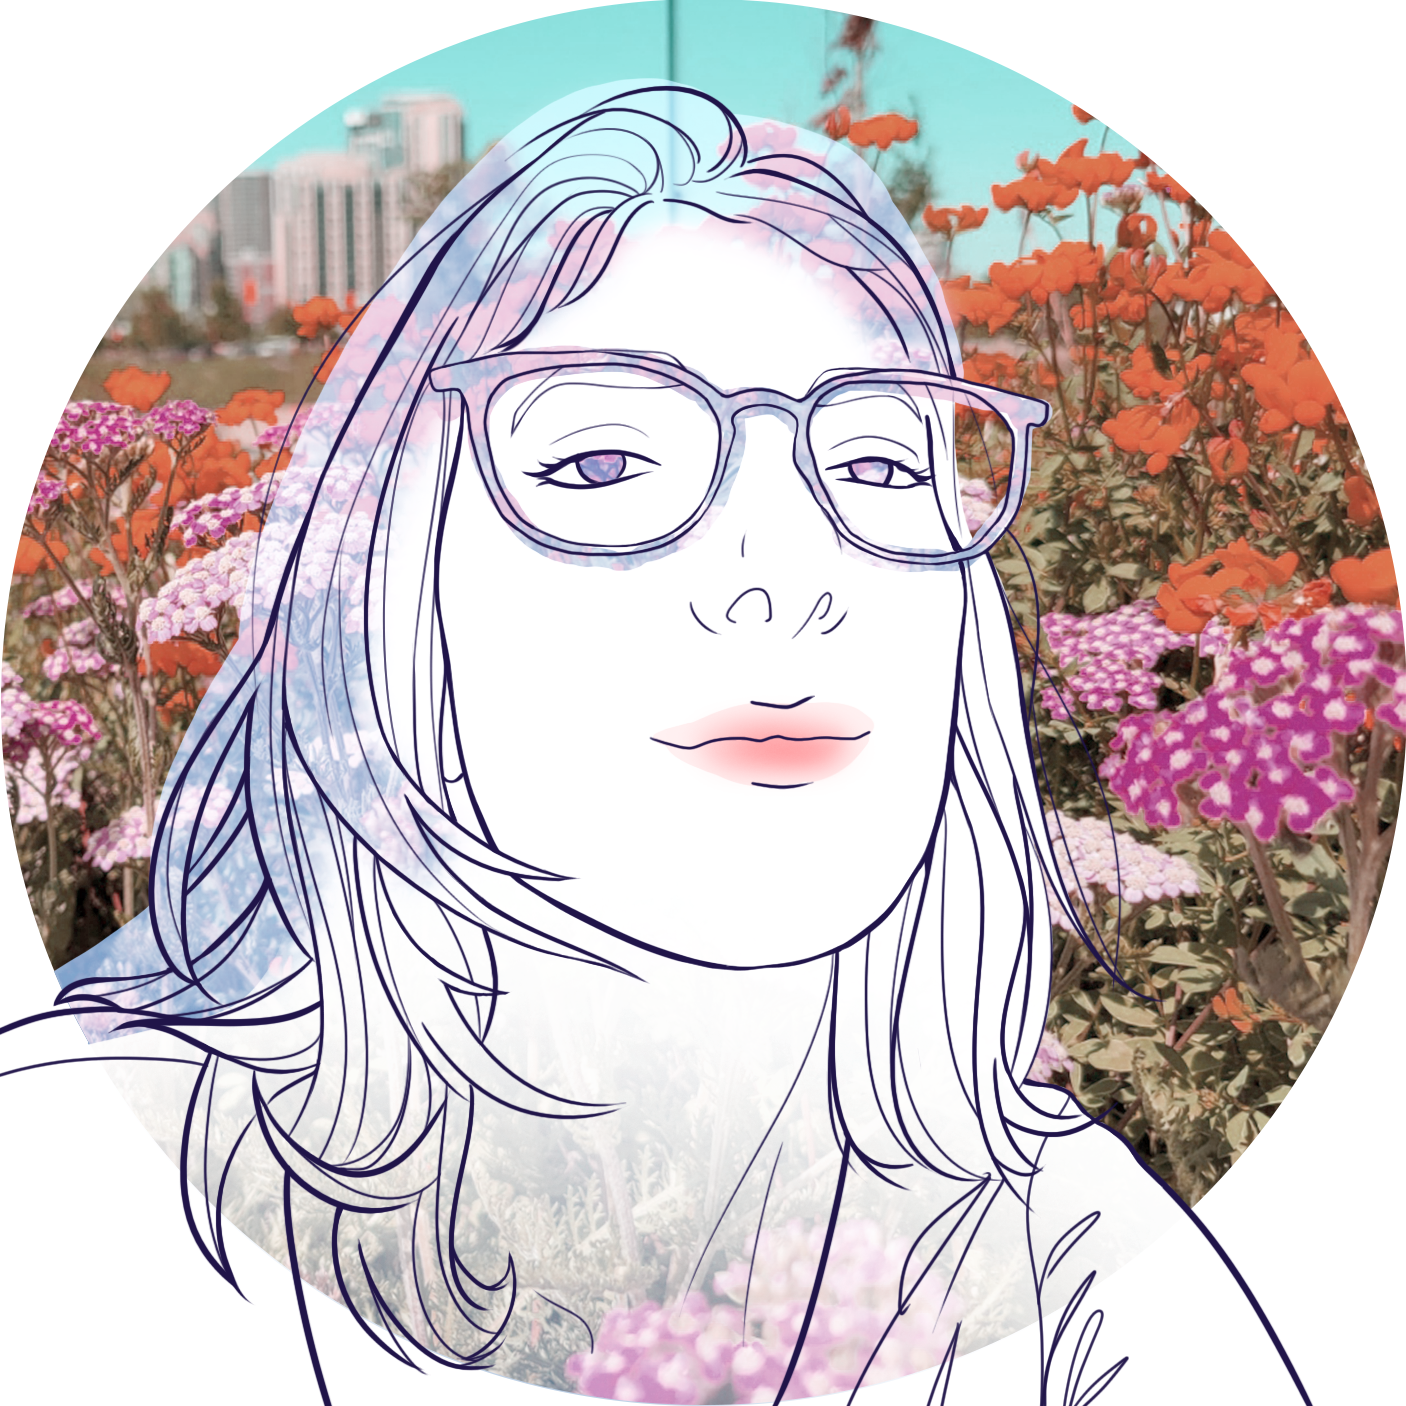
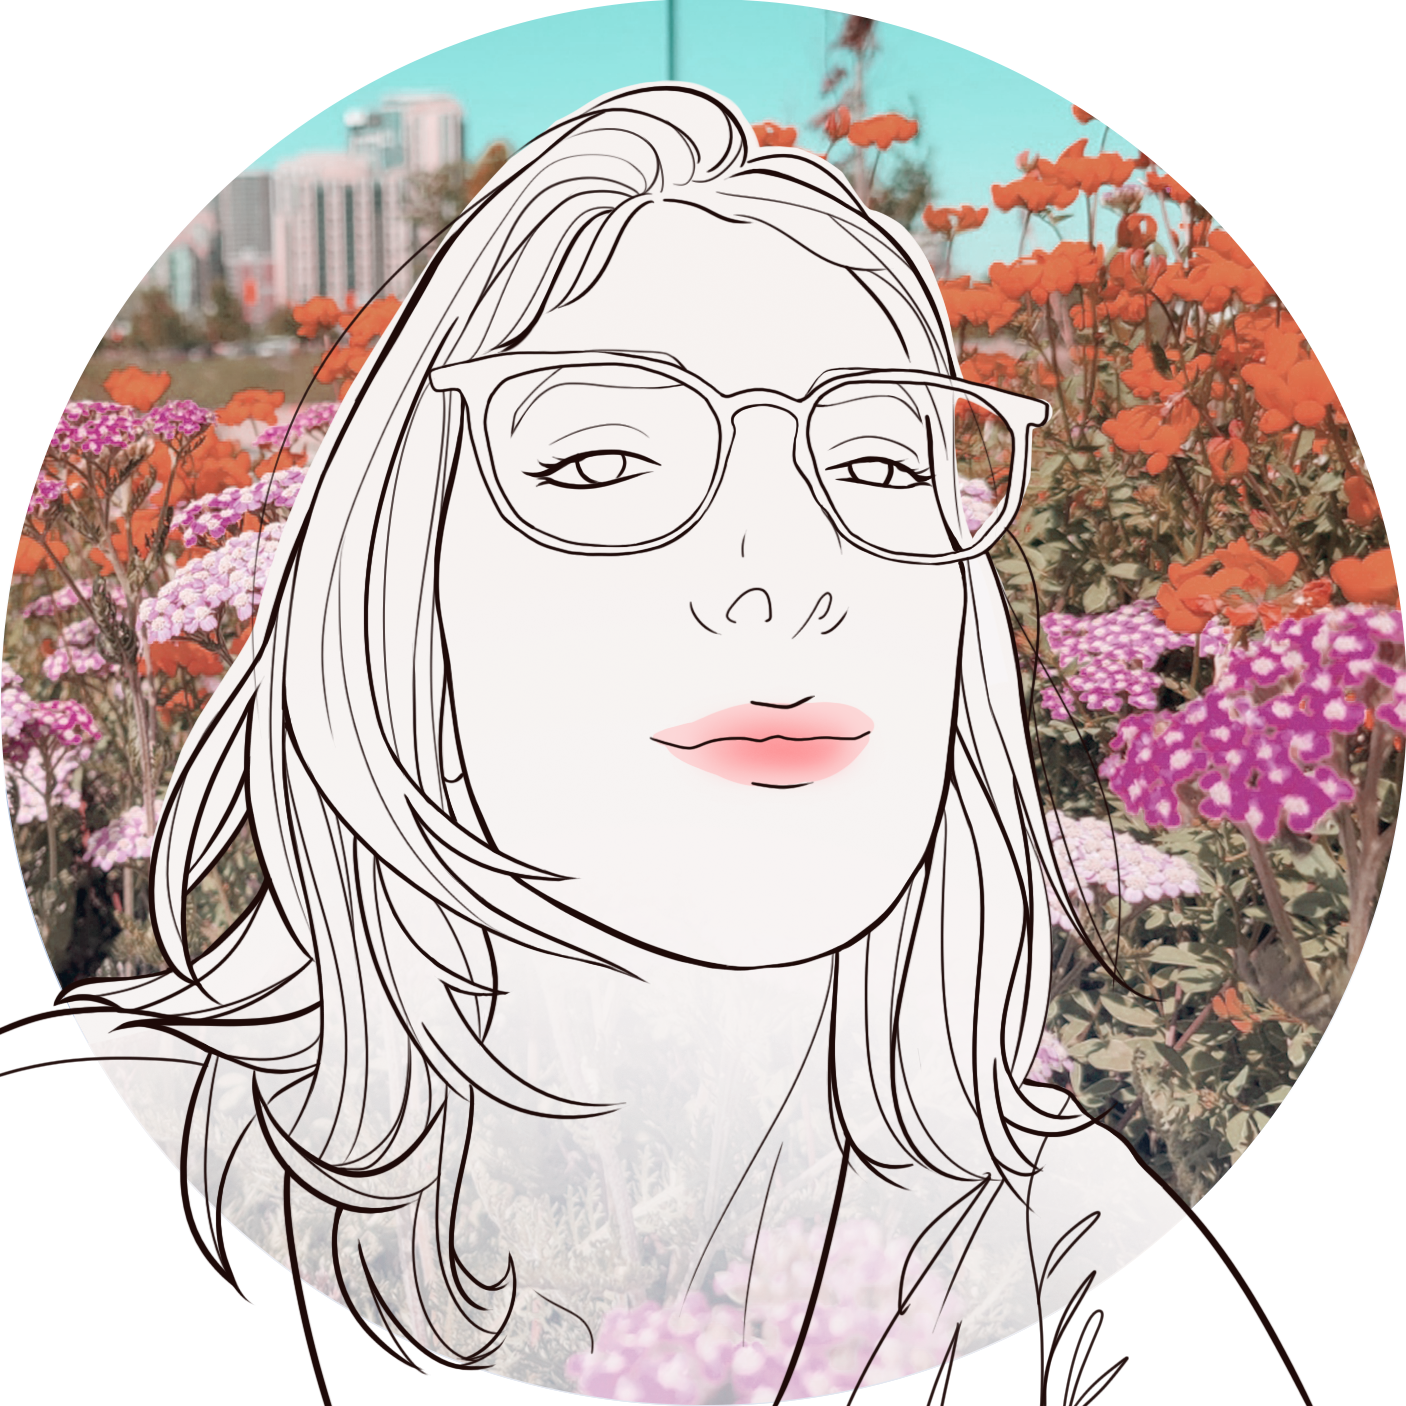
Update portfolio

diff --git a/portfolio/css/style.css b/portfolio/css/style.css
@@ -7,7 +7,8 @@
 :root {
     --main-color: #f8614e;
     --secondary-color: #99debe;
-    --background-color: #f0f1e9;
+    --background-color: #f7f4f0;
+    --background-color-transparent: rgba(247, 244, 240, 0.85);
     --text-color: #3e5766;
 }
 
@@ -18,7 +19,7 @@
     font-family: 'Poppins', sans-serif;
     padding: 0;
     scroll-behavior: smooth;
-    
+
 }
 
 body {
@@ -177,7 +178,7 @@ body {
 }
 
 .nav-scrolling-active {
-    background-color: rgba(240, 241, 233, 0.85);
+    background-color: var(--background-color-transparent);
     box-shadow: 0 10px 1.5rem -10px rgba(0, 0, 0, .1);
     height: 4.5rem;
     backdrop-filter: blur(5px);
@@ -617,7 +618,7 @@ body {
     animation-name: spin;
     animation-duration: 3500ms;
     animation-iteration-count: infinite;
-    animation-timing-function: linear; 
+    animation-timing-function: linear;
 }
 
 @keyframes spin {
@@ -639,7 +640,7 @@ body {
 }
 
 .about-picture:hover {
-	background: url("../images/aboutpic_02.png");
+	background: url("../images/aboutpic-sepia.png");
     width: 30rem;
     height: 30rem;
     background-size: cover;
@@ -656,7 +657,7 @@ body {
         background-position: center;
     }
     to {
-        background: url("../images/aboutpic_02.png");
+        background: url("../images/aboutpic-sepia.png");
         width: 30rem;
         height: 30rem;
         background-size: cover;
@@ -666,7 +667,7 @@ body {
 
 @keyframes circle-out {
     from {
-        background: url("../images/aboutpic_02.png");
+        background: url("../images/aboutpic-sepia.png");
         width: 30rem;
         height: 30rem;
         background-size: cover;
@@ -762,7 +763,7 @@ body {
         justify-content: space-between;
         flex-direction: row-reverse;
         width: 100%;
-        position: absolute;
+        position: fixed;
         top: 0;
         z-index: 1;
         transition: all .5s ease;
@@ -979,7 +980,8 @@ body {
     }
 
     .background-shape {
-        top: 40px;
+        width: 105%;
+        top: 45px;
         left: -10px;
     }
 
@@ -987,11 +989,15 @@ body {
         width: 20rem;
         height: 20rem;
         margin-top: 4.5rem;
+        animation: none;
+        transition: all 0.3s ease-in-out;
+
     }
 
     .about-picture:hover {
         width: 20rem;
         height: 20rem;
+        animation: none;
     }
 
     @keyframes circle {
@@ -1003,7 +1009,7 @@ body {
             background-position: center;
         }
         to {
-            background: url("..images/aboutpic_02.png");
+            background: url("..images/aboutpic-sepia.png");
             width: 20rem;
             height: 20rem;
             background-size: cover;
@@ -1068,6 +1074,8 @@ body {
     .about-container {
         padding-top: 0;
         flex-direction: column;
+        overflow-x: hidden;
+
     }
 
     .project-info, .caption {

diff --git a/portfolio/js/script.js b/portfolio/js/script.js
@@ -42,7 +42,7 @@ const rootEle = document.documentElement;
 
 function scroll() {
     let scrollTotal = rootEle.scrollHeight - rootEle.clientHeight;
-    if (rootEle.scrollTop / scrollTotal > 0.3) {
+    if (rootEle.scrollTop / scrollTotal > 0.2) {
         scrollToTopBtn.classList.add("showBtn");
     } else {
         scrollToTopBtn.classList.remove("showBtn");
